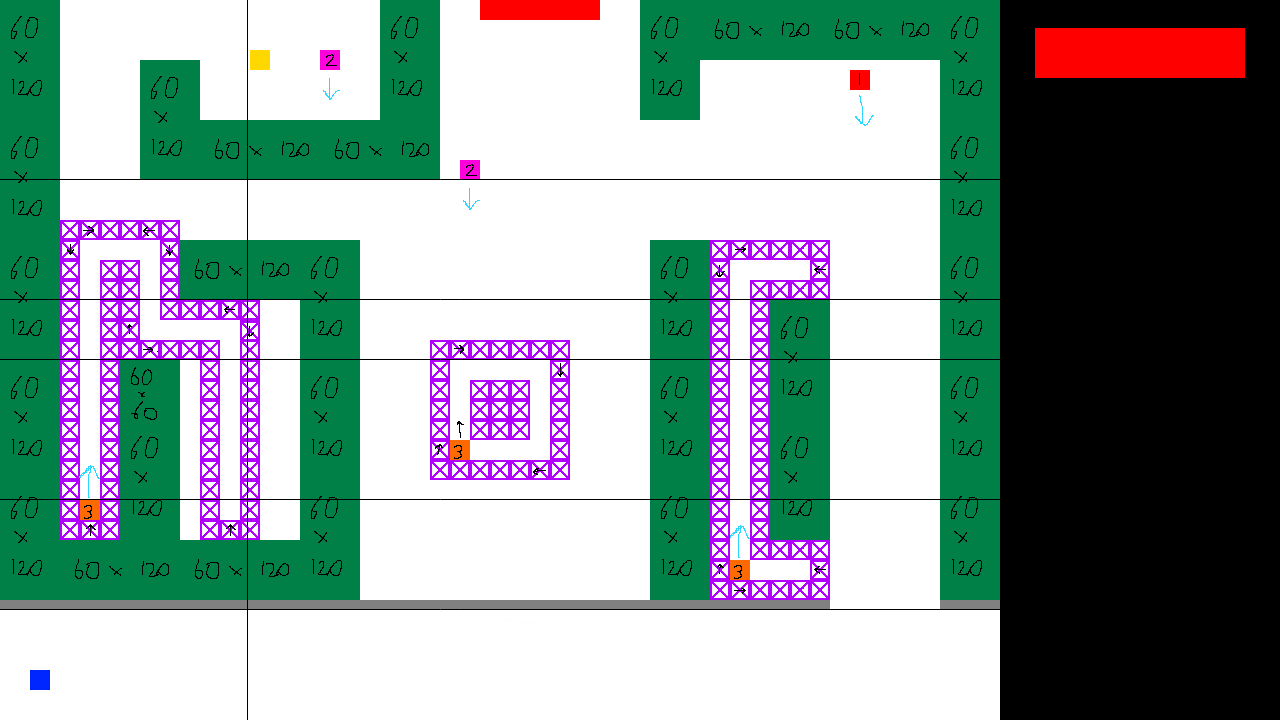
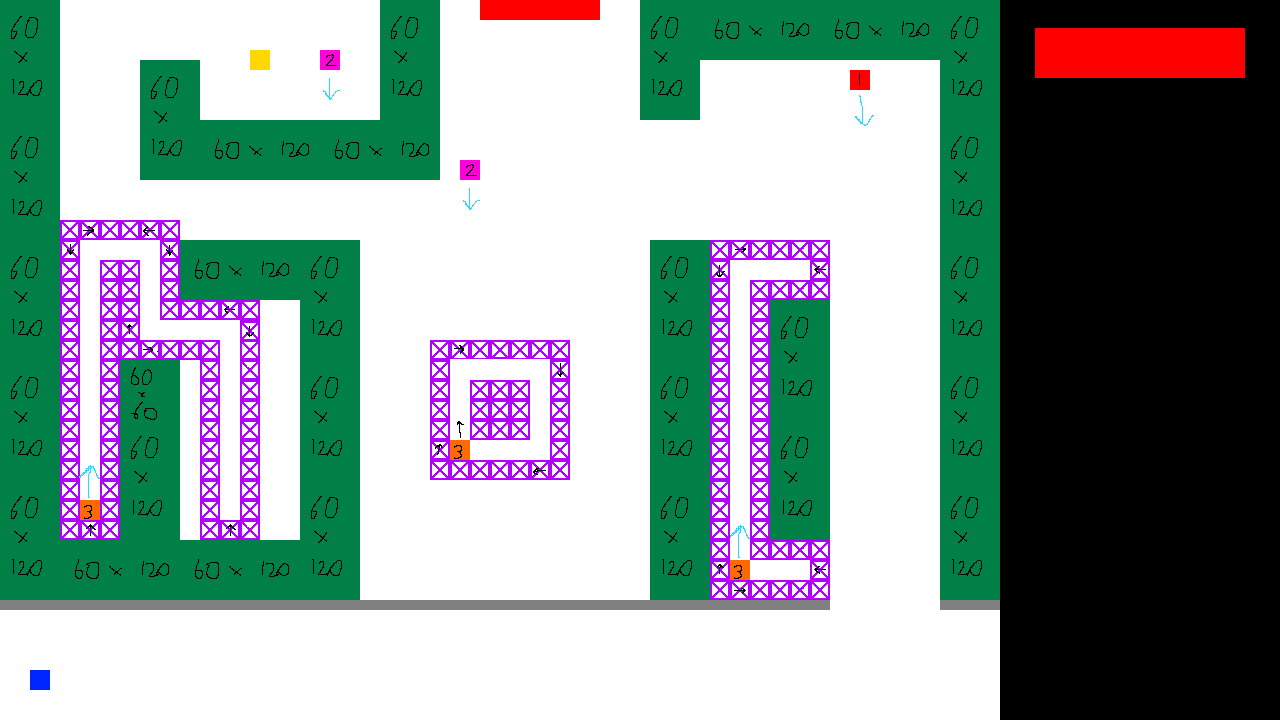
level cleaned up, movement and coordinates of player works

diff --git a/Project.py b/Project.py
@@ -50,7 +50,7 @@ class Player(pygame.sprite.Sprite):
         self.direction_x =0
         self.direction_y =0
         self.colour = colour
-        self.image = pygame.Surface([10,10])
+        self.image = pygame.Surface([20,20])
         self.image.fill(self.colour)
         self.rect = self.image.get_rect()
         self.rect.x = x 
@@ -63,16 +63,26 @@ class Player(pygame.sprite.Sprite):
         self.direction_y = value
         
     def update(self):
-        if (self.rect.x>0 and self.rect.x<1260) and (self.rect.y >0 and self.rect.y<700):
+        #------Level border collision logic
+        if (self.rect.x>=0 and self.rect.x<=980) and (self.rect.y >=0 and self.rect.y<=700):
             self.rect.x = self.rect.x + self.direction_x*self.speed
             self.rect.y = self.rect.y + self.direction_y*self.speed
+        if self.rect.x < 0:
+            self.rect.x = 0
+        if self.rect.x >980:
+            self.rect.x = 980
+        if self.rect.y <0:
+            self.rect.y =0
+        if self.rect.y > 700:
+            self.rect.y =700
+        #-------Level border collision logic
     
 
 class Enemy(pygame.sprite.Sprite):
     def __init__(self, level, speed, x, y):
         super().__init__()
         self.colour = BLUE
-        self.image = pygame.Surface([10,10])
+        self.image = pygame.Surface([20,20])
         self.image.fill(self.colour)
         self.rect = self.image.get_rect()
         self.rect.x = x
@@ -81,7 +91,7 @@ class Enemy(pygame.sprite.Sprite):
 class Obstacle(pygame.sprite.Sprite):
     def __init__(self, x, y):
         self.colour = BROWN
-        self.image = pygame.Surface([10,10]
+        self.image = pygame.Surface([10,10])
         self.image.fill(self.colour)
         self.rect = self.image.get_rect()
         self.rect.x = x
@@ -108,7 +118,7 @@ class Exit(pygame.sprite.Sprite):
         self.rect = self.image.get_rect()
         self.rect.x = x
         self.rect.y = y
-        self.state = 0      #exit closed = default
+        self.state = 0      #exit closed by default
         
     def state_change(self,state):
         self.state = state
@@ -116,24 +126,6 @@ class Exit(pygame.sprite.Sprite):
         #state = 1 -> exit is open
         
         
-##class Cursor(pygame.sprite.Sprite):
-##    def __init__(self, colour, x, y):
-##        super().__init__()
-##        self.colour = colour
-##        self.image= pygame.Surface([6,6])
-##        self.image.fill(self.colour)
-##        self.rect = self.image.get_rect()
-##        self.rect.x = x -2
-##        self.rect.y = y -2
-##
-##    def update(self):
-##        mouse_pos = pygame.mouse.get_pos()
-##        self.rect.x = mouse_pos[0] -2
-##        self.rect.y = mouse_pos[1] -2
-##
-##        #cursorbutton_hit_group = pygame.sprite.groupcollide(cursor_group, button_group,False, False)
-##        
-
         
 class Button():
     def __init__(self, colour, x,  y,width,height,font, text=''):
@@ -163,6 +155,26 @@ class Button():
                 return True
             
         return False
+
+    
+    ##class Cursor(pygame.sprite.Sprite):
+##    def __init__(self, colour, x, y):
+##        super().__init__()
+##        self.colour = colour
+##        self.image= pygame.Surface([6,6])
+##        self.image.fill(self.colour)
+##        self.rect = self.image.get_rect()
+##        self.rect.x = x -2
+##        self.rect.y = y -2
+##
+##    def update(self):
+##        mouse_pos = pygame.mouse.get_pos()
+##        self.rect.x = mouse_pos[0] -2
+##        self.rect.y = mouse_pos[1] -2
+##
+##        #cursorbutton_hit_group = pygame.sprite.groupcollide(cursor_group, button_group,False, False)
+##
+
     
 ##---------------------------------------------------------------------Functions/Procedures---------------------------------------------------------------------##
     
@@ -197,38 +209,38 @@ def level_selector(num):
         
 def level_clear():
     all_sprites_group.empty()
-
-def map_creator(layout):
-    for y in range(len(layout)):
-        for x in range(len(layout[y])):
-            if layout[y][x] == 1:
-                #places obstacle
-                obstacle = Obstacle(x*10,y*10)
-                obstacle_group.add(obstacle)
-                all_sprites_group.add(obstacle)
-            if layout[y][x] == 2:
-                #player spawn
-                create_player(x*10,y*10)
-            if layout[y][x] == 3:
-                #spawn enemy type 1
-            if layout[y][x] == 4:
-                #spawn enemy type 2
-            if layout[y][x] == 5:
-                #spawn enemy type 3
-            if layout[y][x] == 6:
-                #exit tiles
-            if layout[y][x] == 7:
-                #key location
-            if layout[y][x] == 8:
-                #enemy obstacle position
-            if layout[y][x] == 9 :
-                #enemy obstacle UP
-            if layout[y][x] == 10:
-                #enemy obstacle DOWN
-            if layout[y][x] == 11:
-                #enemy obstacle RIGHT
-            if layout[y][x] == 12:
-                #enemy obstacle LEFT
+##
+##def map_creator(layout):
+##    for y in range(len(layout)):
+##        for x in range(len(layout[y])):
+##            if layout[y][x] == 1:
+##                #places obstacle
+##                obstacle = Obstacle(x*10,y*10)
+##                obstacle_group.add(obstacle)
+##                all_sprites_group.add(obstacle)
+##            if layout[y][x] == 2:
+##                #player spawn
+##                create_player(x*10,y*10)
+##            if layout[y][x] == 3:
+##                #spawn enemy type 1
+##            if layout[y][x] == 4:
+##                #spawn enemy type 2
+##            if layout[y][x] == 5:
+##                #spawn enemy type 3
+##            if layout[y][x] == 6:
+##                #exit tiles
+##            if layout[y][x] == 7:
+##                #key location
+##            if layout[y][x] == 8:
+##                #enemy obstacle position
+##            if layout[y][x] == 9 :
+##                #enemy obstacle UP
+##            if layout[y][x] == 10:
+##                #enemy obstacle DOWN
+##            if layout[y][x] == 11:
+##                #enemy obstacle RIGHT
+##            if layout[y][x] == 12:
+##                #enemy obstacle LEFT
 
 def create_player(x,y):
     global player
